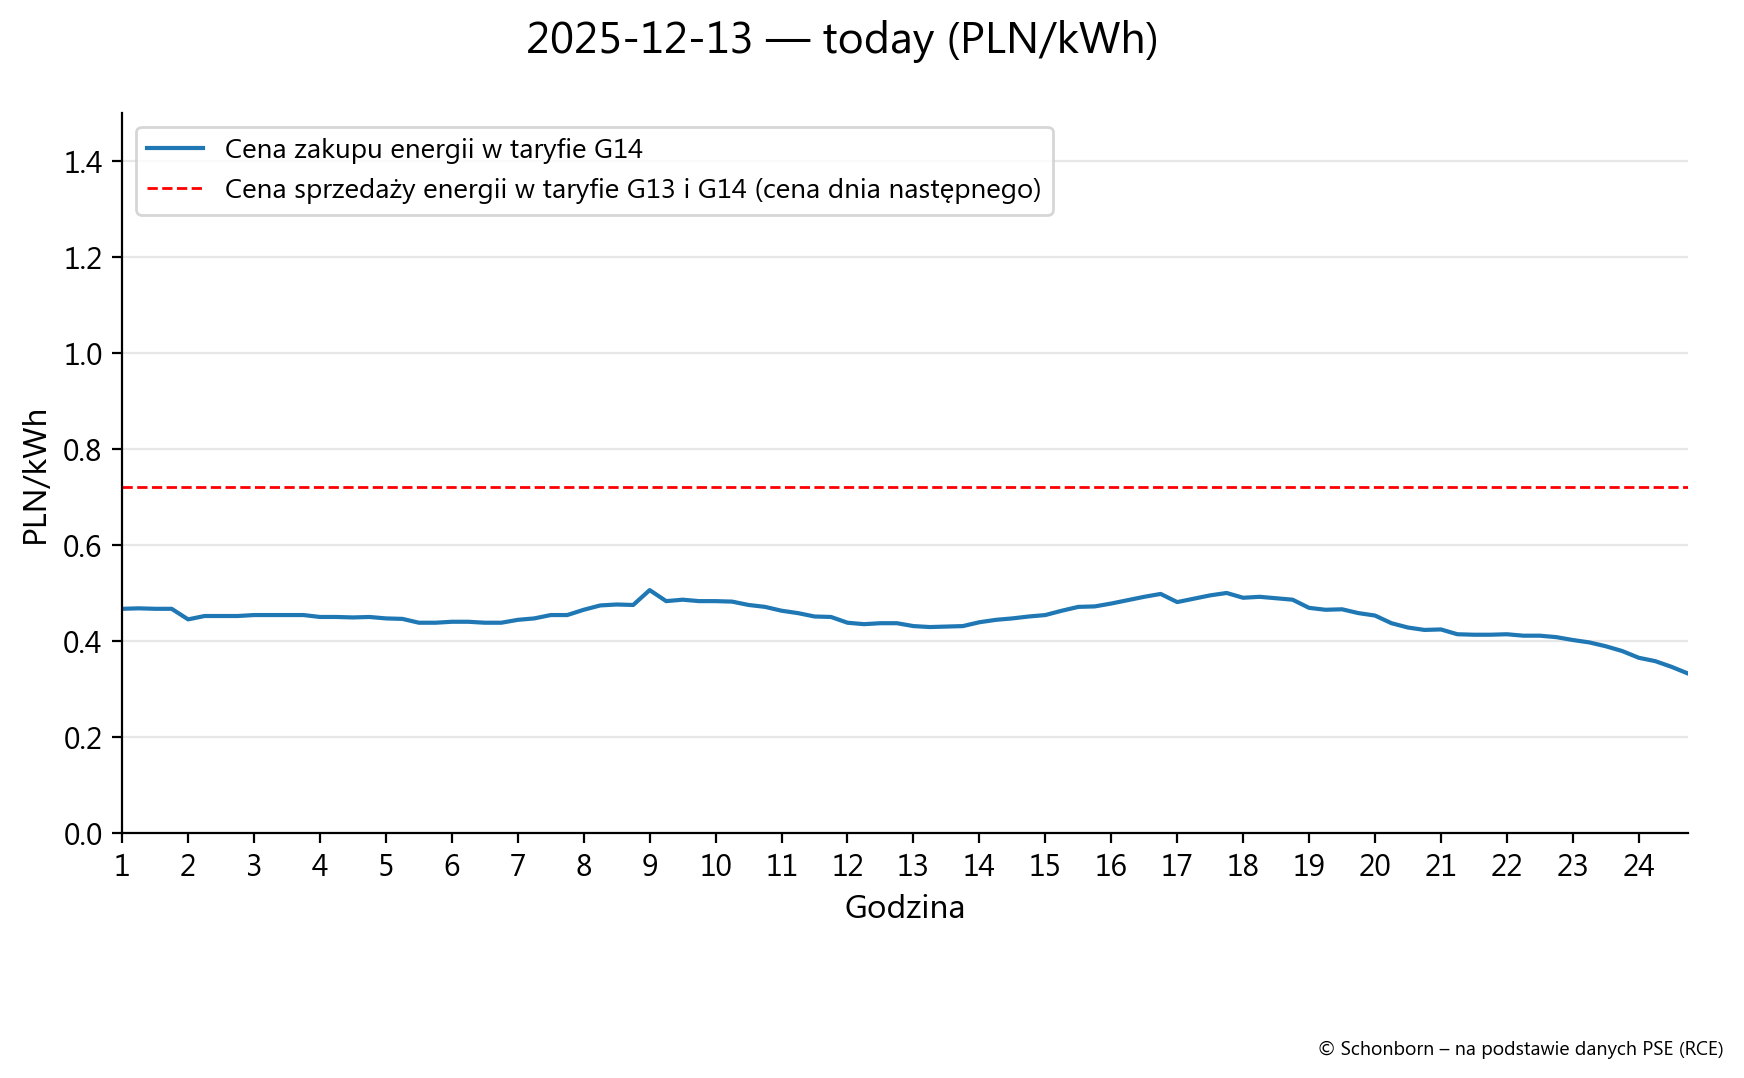
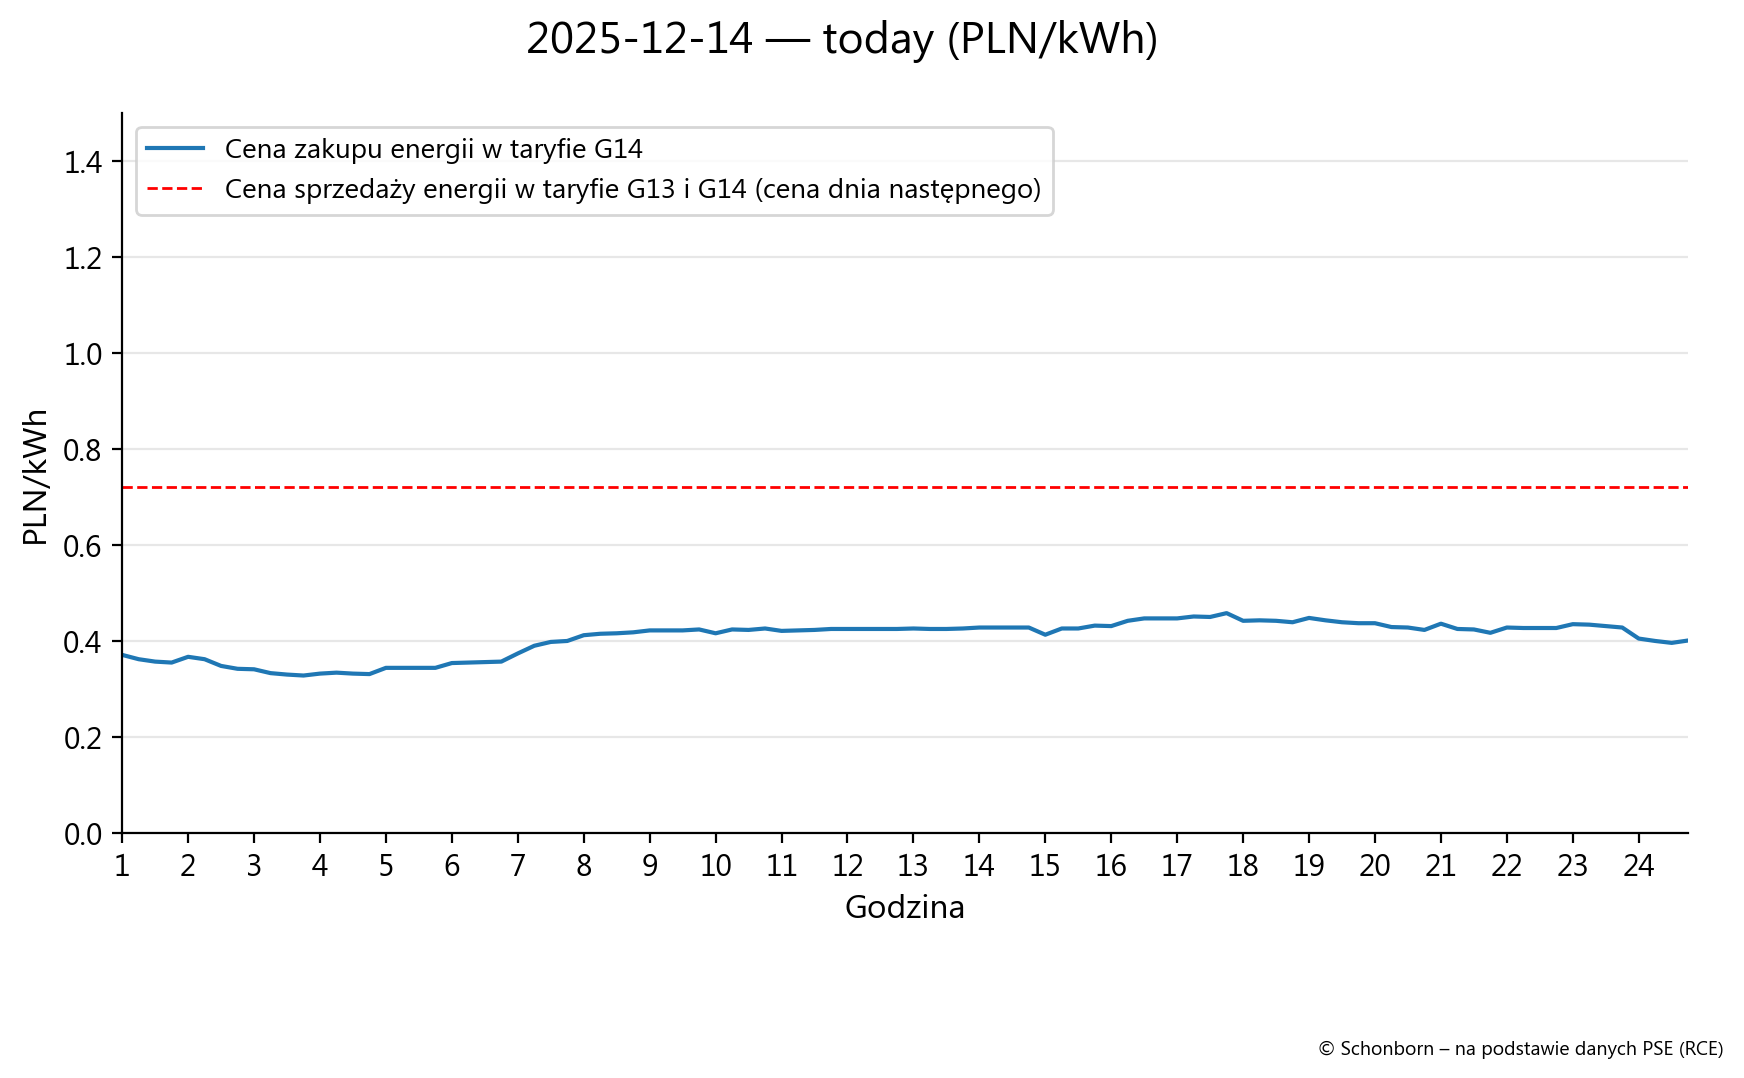
site: update 2025-12-14 13:00 UTC

diff --git a/site/html_02_raport_ze_stanu_teraz.html b/site/html_02_raport_ze_stanu_teraz.html
@@ -18,7 +18,7 @@
   </div>
 
   <section class="hero">
-    <div class="kicker">Ostatni odczyt: 14.12.2025 13:45</div>
+    <div class="kicker">Ostatni odczyt: 14.12.2025 14:00</div>
     <h1>Raport ze stanu teraz</h1>
     <p>
       Taryfy Tauron:
@@ -42,7 +42,7 @@
       <tbody>
         <tr>
           <th style="width:40%;">Czas odczytu</th>
-          <td>14.12.2025 13:45</td>
+          <td>14.12.2025 14:00</td>
         </tr>
         <tr>
           <th>Położenie</th>
@@ -66,23 +66,23 @@
         </tr>
         <tr>
           <th>Zużycie energii dzisiaj [kWh]</th>
-          <td>4.50</td>
+          <td>4.70</td>
         </tr>
         <tr>
           <th>Energia pobrana z sieci dzisiaj [kWh]</th>
-          <td>0.40</td>
+          <td>0.50</td>
         </tr>
         <tr>
           <th>Zużycie z sieci dzisiaj [kWh]</th>
-          <td>0.40</td>
+          <td>0.50</td>
         </tr>
         <tr>
           <th>Zużycie z własnego systemu dzisiaj [kWh]</th>
-          <td>4.10</td>
+          <td>4.20</td>
         </tr>
         <tr>
           <th>Wyjście inwertera dzisiaj [kWh]</th>
-          <td>4.10</td>
+          <td>4.20</td>
         </tr>
       </tbody>
     </table>
@@ -106,7 +106,7 @@
         </tr>
         <tr>
           <th>Moc z / do sieci [W]</th>
-          <td>n/a</td>
+          <td>418</td>
         </tr>
         <tr>
           <th>Moc z / do baterii [W]</th>
@@ -150,7 +150,7 @@
         </tr>
         <tr>
           <th>Napięcie [V]</th>
-          <td>236.69</td>
+          <td>233.23</td>
         </tr>
         <tr>
           <th>Prąd [A]</th>

diff --git a/site/html_03_g13_g14_porownanie.html b/site/html_03_g13_g14_porownanie.html
@@ -18,7 +18,7 @@
   </div>
 
   <section class="hero">
-    <div class="kicker">Porównanie kosztów w taryfach G13 i G14, ostatni pomiar dla 15 min. 1 s wykonano 2025-12-14 13:45:16</div>
+    <div class="kicker">Porównanie kosztów w taryfach G13 i G14, ostatni pomiar dla 15 min. 0 s wykonano 2025-12-14 14:00:32</div>
     <h1>Koszt energii</h1>
     <p>
       Taryfy Tauron:
@@ -52,18 +52,18 @@
         <tr>
           <td style="width:60%;">Cena brutto [PLN/kWh]</td>
           <td title="Cena brutto taryfa G13">0,690</td>
-          <td title="Cena brutto taryfa G14">0,538</td>
+          <td title="Cena brutto taryfa G14">0,523</td>
         </tr>
         <tr>
           <td style="width:60%;">Koszt energii [PLN]</td>
-          <td title="Koszt energii w taryfie G13">0,069</td>
-          <td title="Koszt energii taryfa G14">0,054</td>
+          <td title="Koszt energii w taryfie G13">0,138</td>
+          <td title="Koszt energii taryfa G14">0,105</td>
         </tr>
         <tr>
           <td colspan="3">
             R&oacute;żnica pomiędzy kosztem w taryfie G14 a taryfie G13
             (G14 − G13):
-            <strong>-0,015 PLN</strong>
+            <strong>-0,033 PLN</strong>
           </td>
         </tr>
       </tbody>

diff --git a/site/html_01_tabele_wykresy_g14_today_tomorrow.html b/site/html_01_tabele_wykresy_g14_today_tomorrow.html
@@ -140,7 +140,7 @@
 <section class="hero">
   <div class="kicker">Dane</div>
   <h1>Taryfa — dzisiaj i jutro</h1>
-  <p class="muted">Strona wygenerowana: 2025-12-14 10:19:23</p>
+  <p class="muted">Strona wygenerowana: 2025-12-14 14:00:31</p>
   <p class="muted">Dane (dzisiaj) — ostatnia próbka: 2025-12-14 23:45:00</p>
   <p class="muted">Dane (jutro) — ostatnia próbka: 2025-12-14 23:45:00</p>
 </section>
